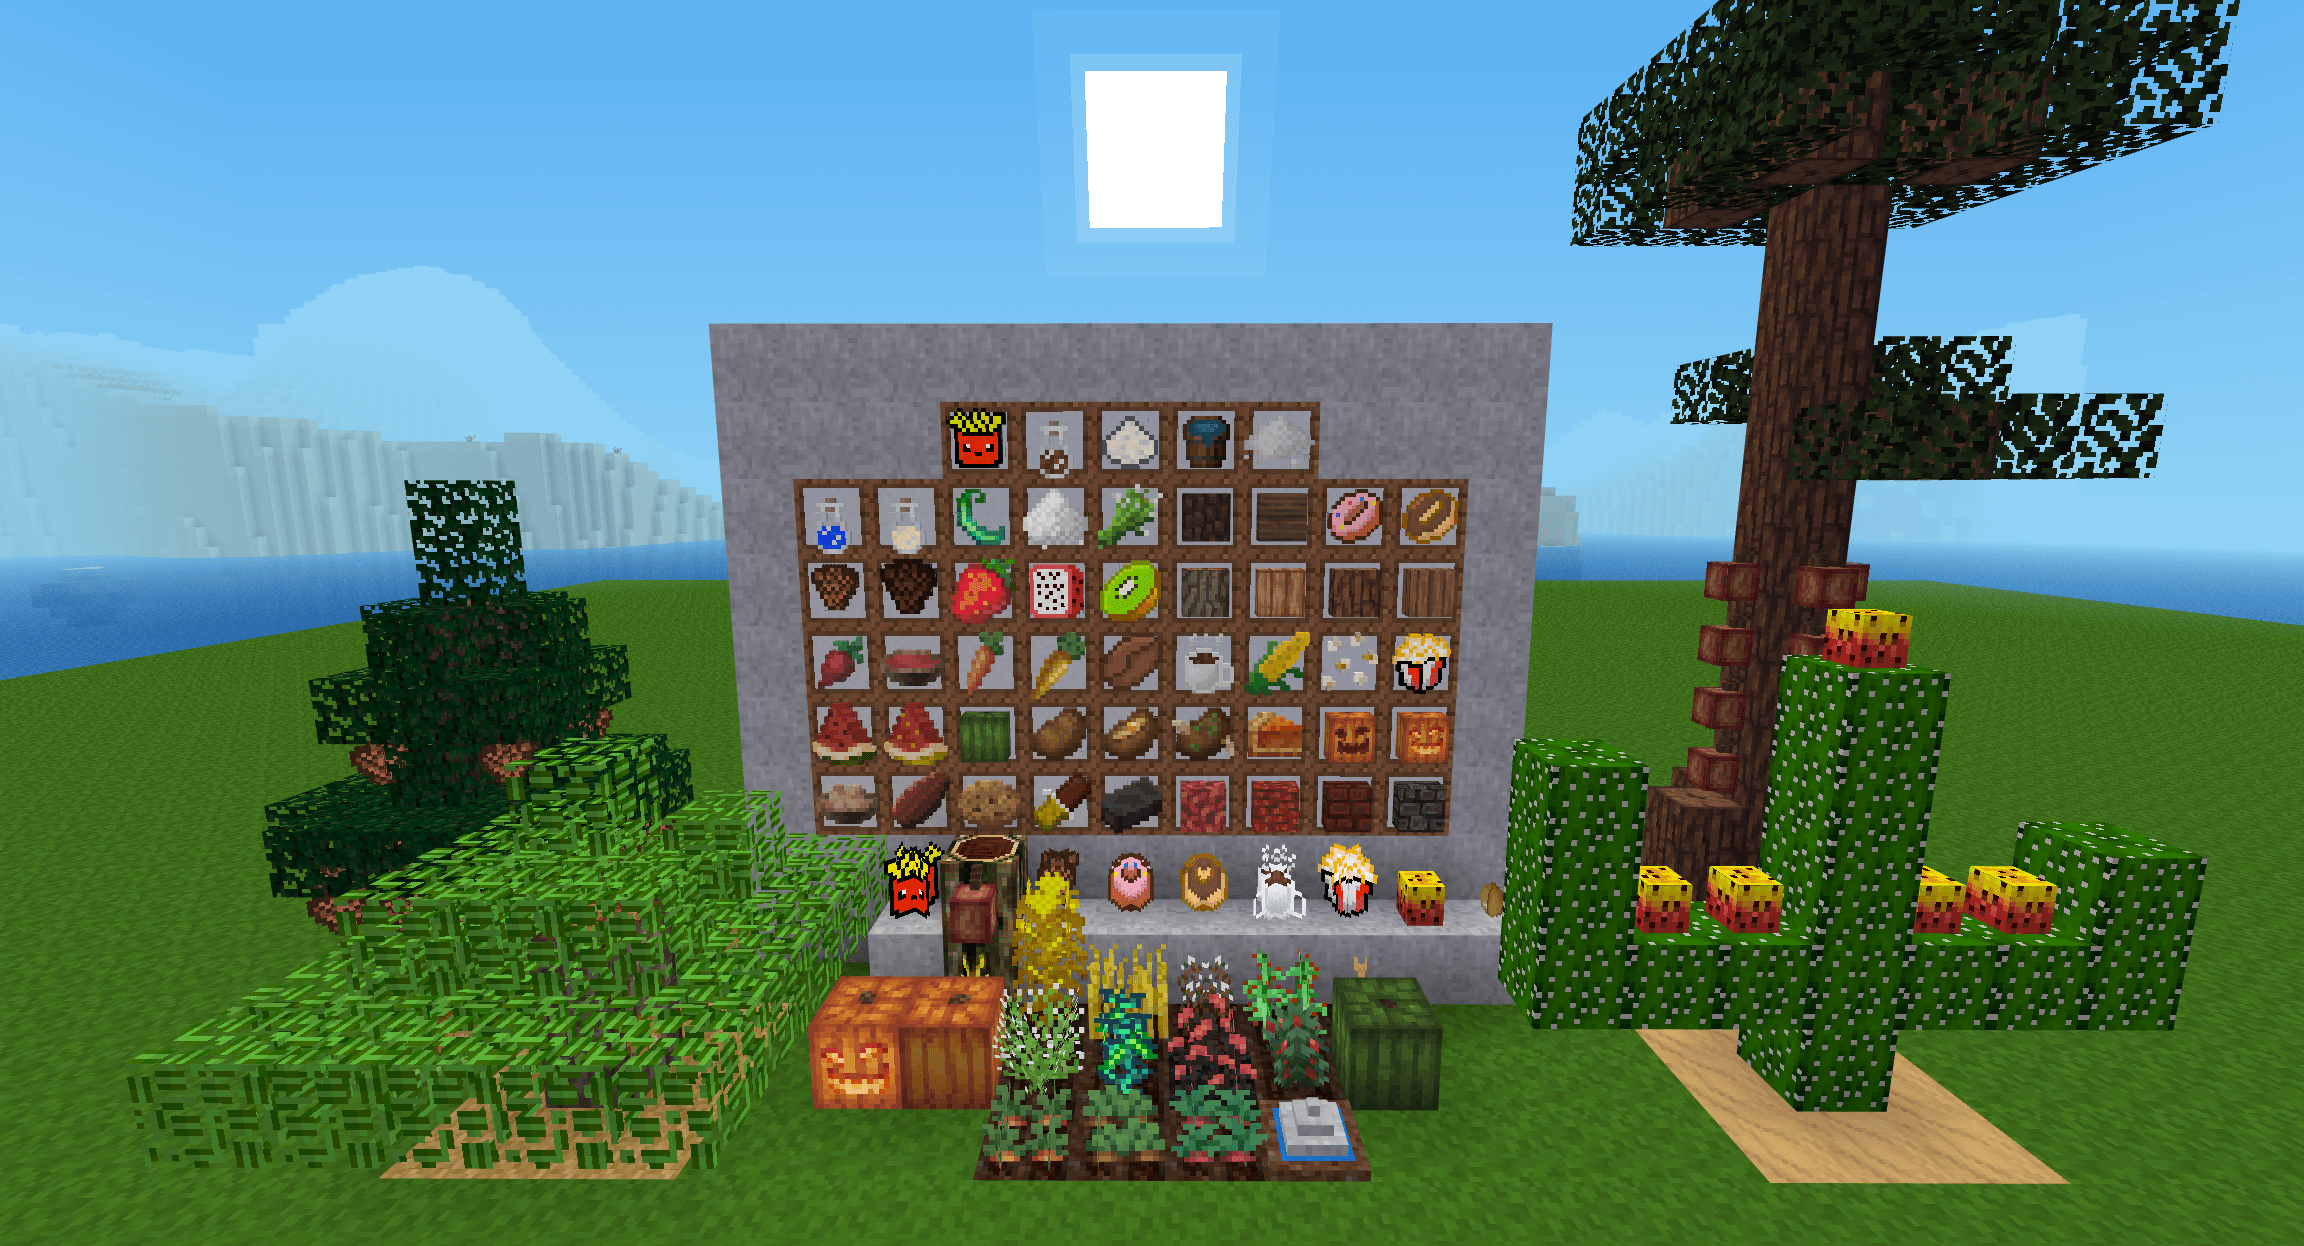
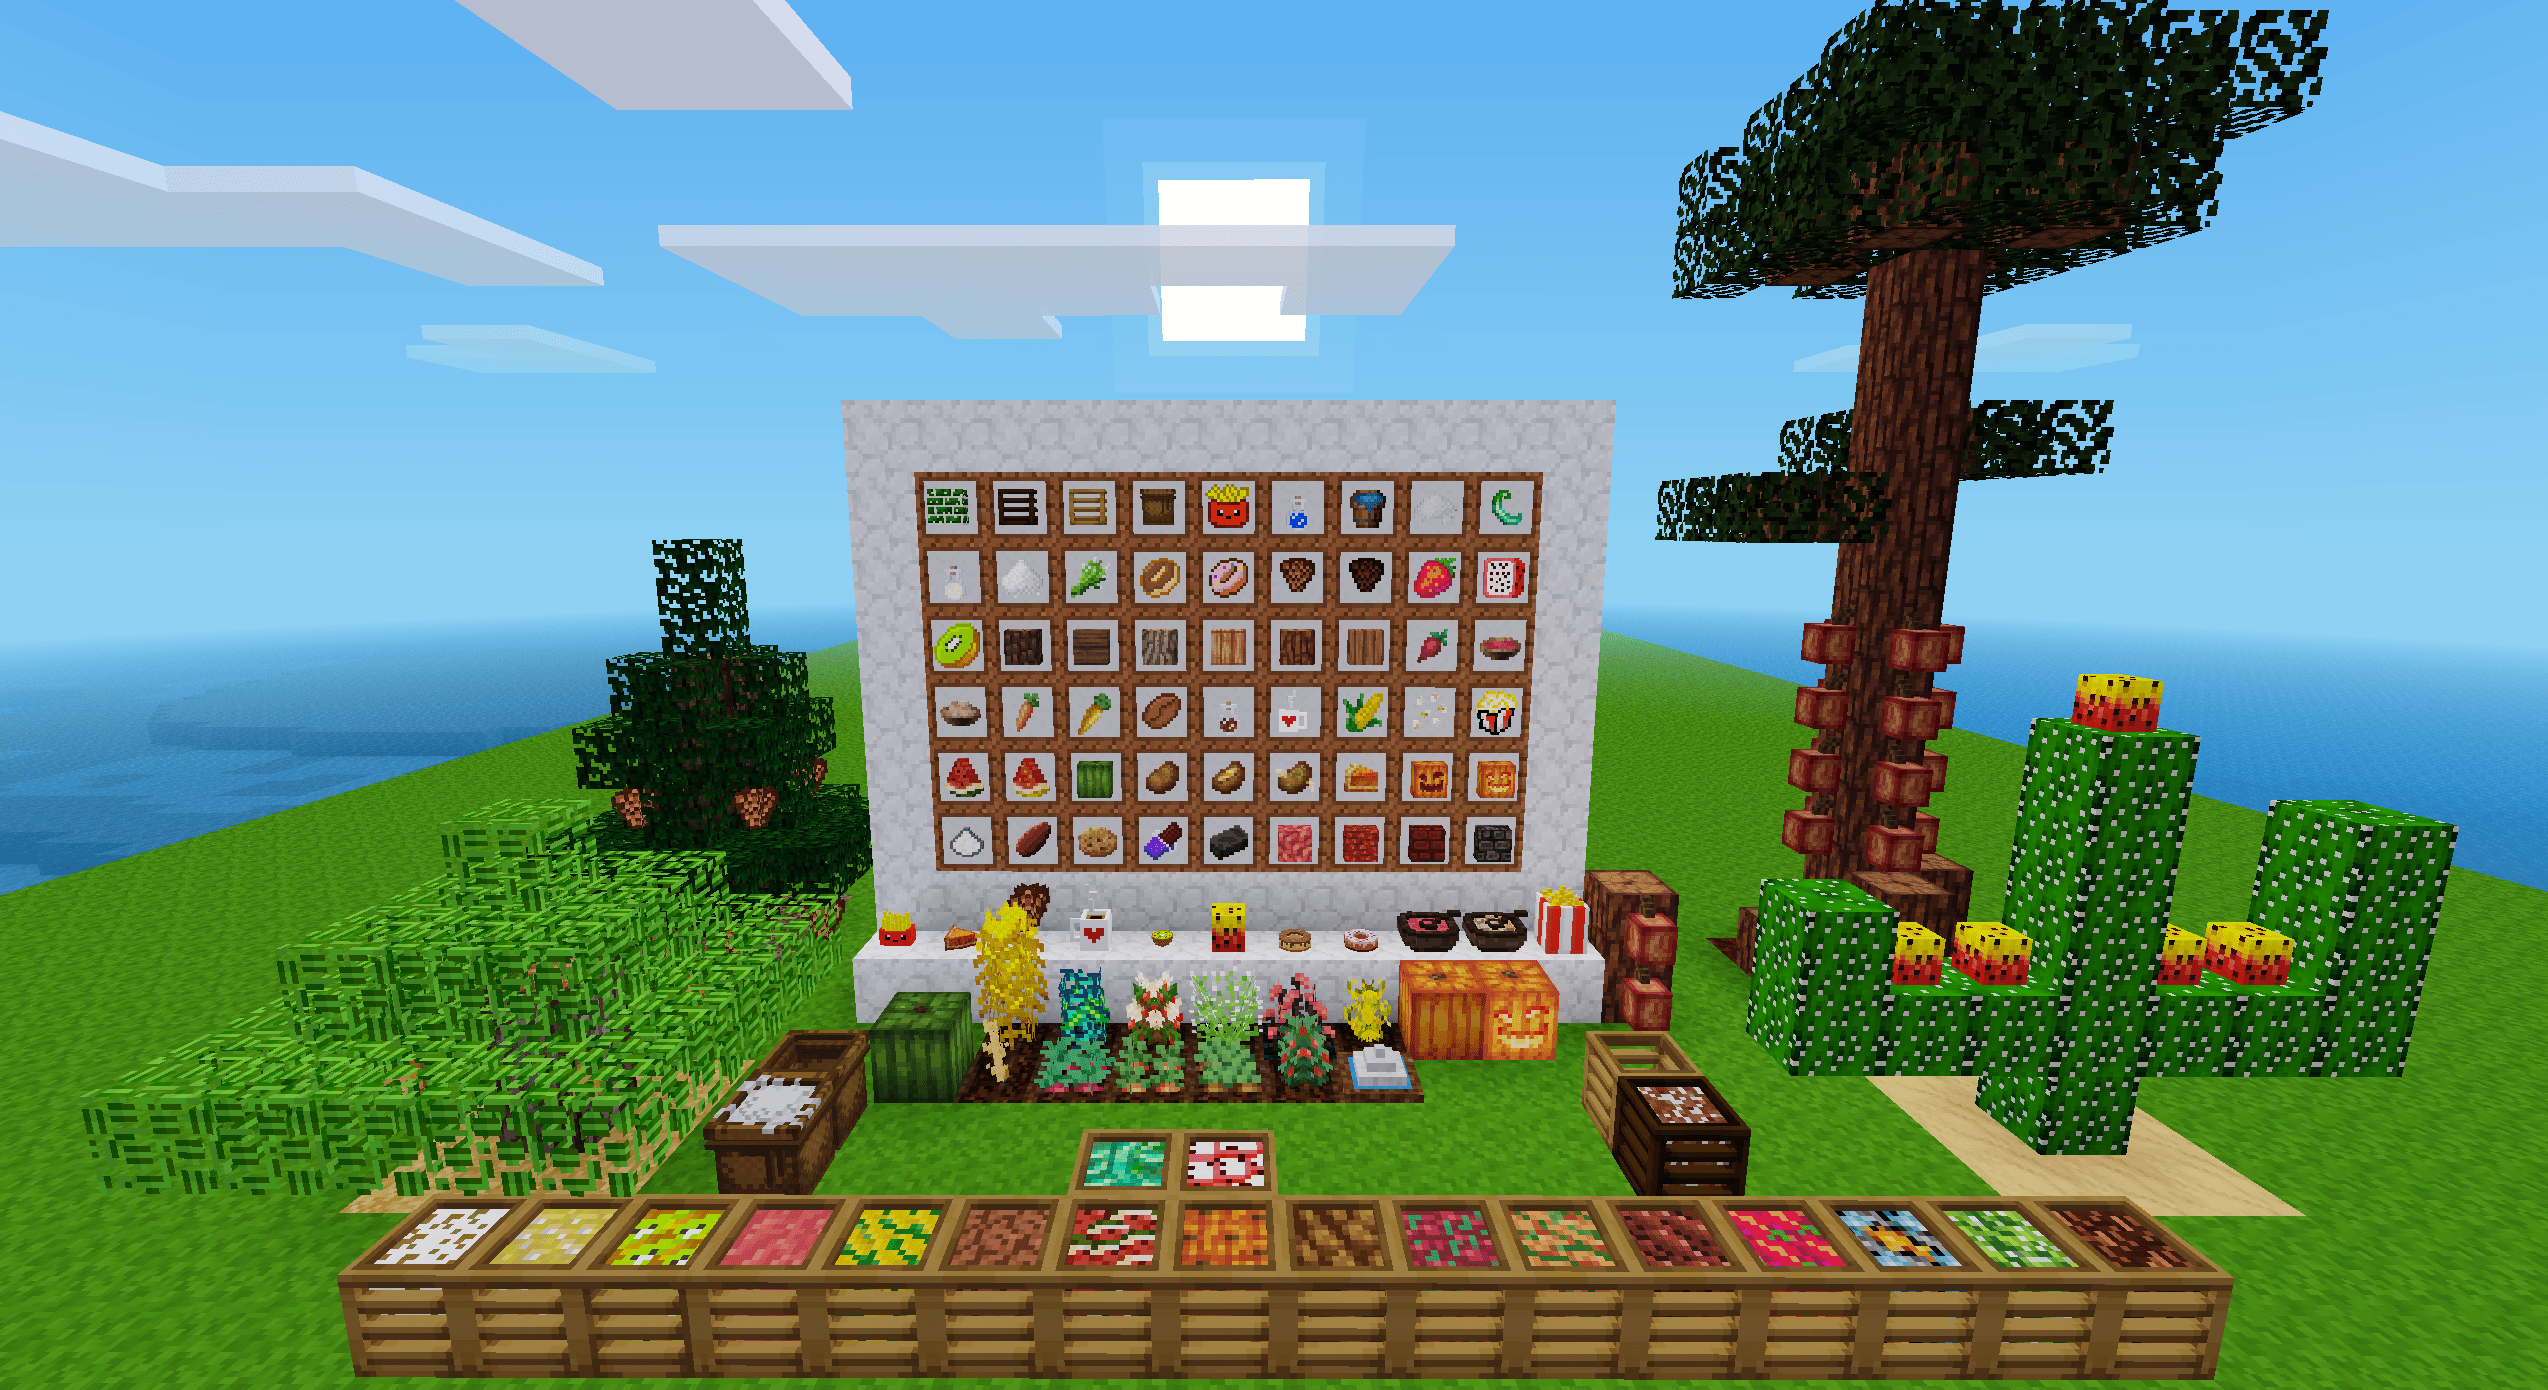
Add cactus brick, update screenshot and types

diff --git a/README.md b/README.md
@@ -812,6 +812,7 @@ GNU Lesser General Public License v2.1 or later (see included LICENSE file)
 - x_farming_fish_ironfish.png
 - x_farming_fish_koi.png
 - x_farming_fish_lamprey.png
+- x_farming_cactus_brick.png -- Derived from a texture by Calinou (CC BY-SA 3.0)
 
 **CC BY-SA 3.0, modified by Thomas-S**
 
